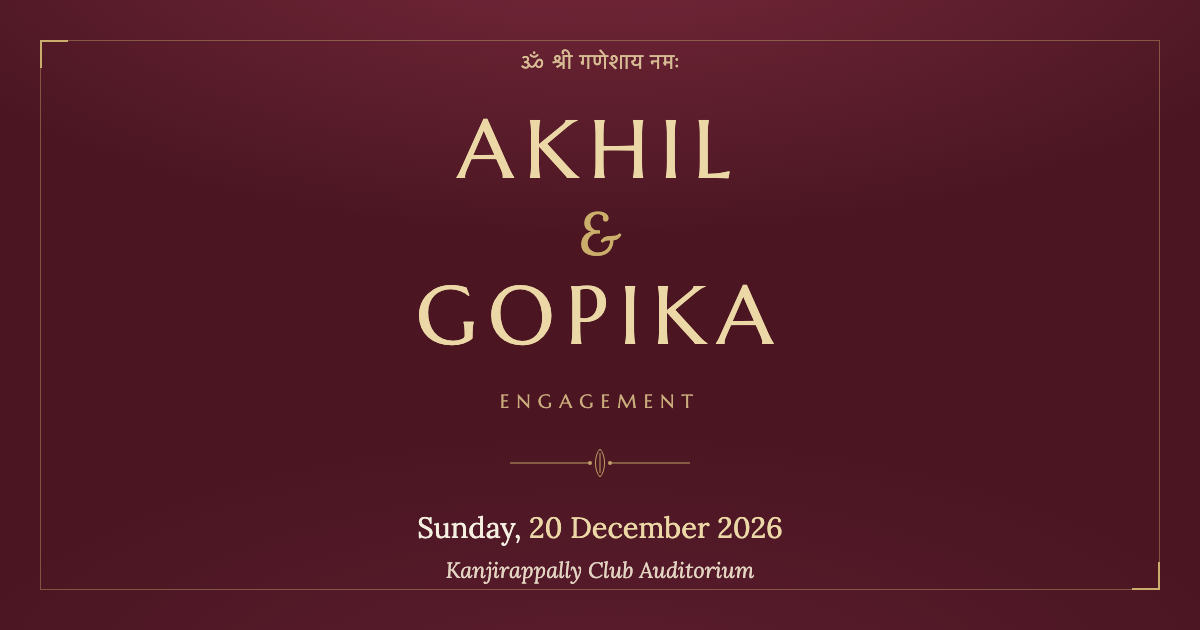
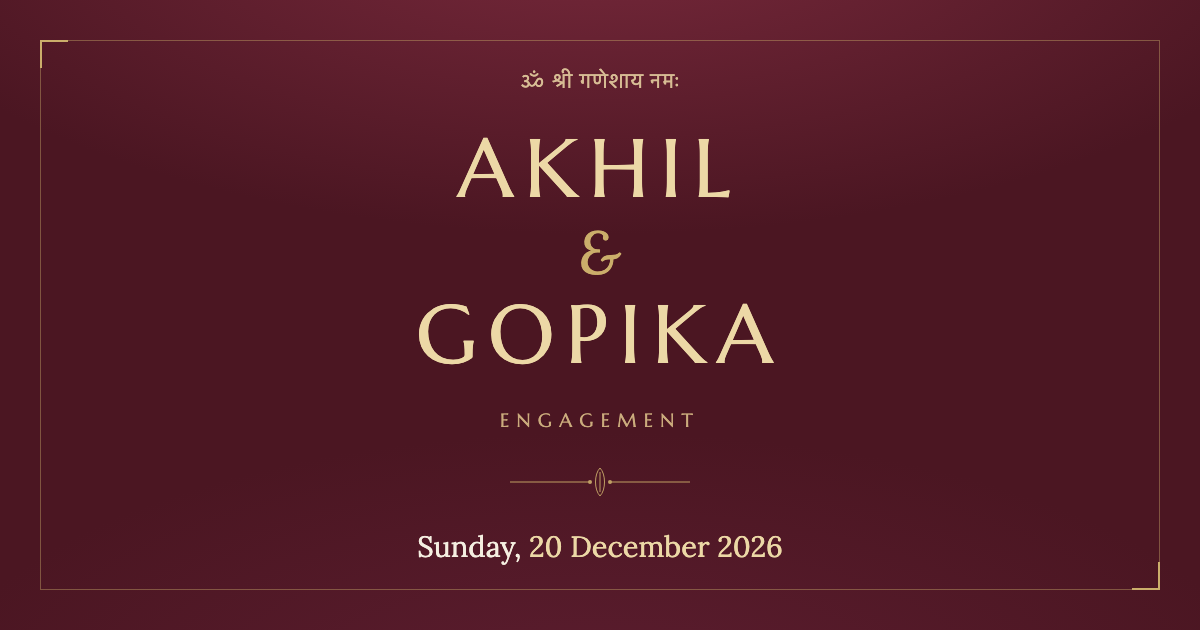
Drop venue from the share card
The 1200x630 preview image now ends on the date. og:image:alt updated to
match. The invitation page itself still carries the venue in the details
card, the Maps link, the calendar event and the footer.

diff --git a/index.html b/index.html
@@ -13,7 +13,7 @@
 <meta property="og:image:type" content="image/png" />
 <meta property="og:image:width" content="1200" />
 <meta property="og:image:height" content="630" />
-<meta property="og:image:alt" content="Akhil and Gopika — Engagement — Sunday, 20 December 2026, Kanjirappally Club Auditorium" />
+<meta property="og:image:alt" content="Akhil and Gopika — Engagement — Sunday, 20 December 2026" />
 <meta name="twitter:card" content="summary_large_image" />
 
 <link rel="preconnect" href="https://fonts.googleapis.com" />
